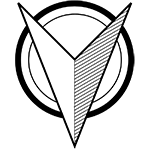
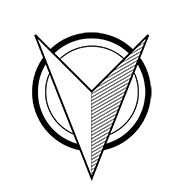
Fix: smoothing wind rotation
- added animation for wind rotation
- enlarged wind image's background to centre the compass

#story[1273]

Changed region(s): [[0.08, 0.0, 0.9067, 1.0]]

diff --git a/src/main/java/seng302/visualiser/controllers/RaceViewController.java b/src/main/java/seng302/visualiser/controllers/RaceViewController.java
@@ -9,6 +9,7 @@ import java.util.Map;
 import java.util.Timer;
 import java.util.TimerTask;
 import java.util.concurrent.TimeUnit;
+import javafx.animation.RotateTransition;
 import javafx.animation.Timeline;
 import javafx.application.Platform;
 import javafx.beans.property.ReadOnlyBooleanProperty;
@@ -47,6 +48,7 @@ import javafx.scene.shape.Polyline;
 import javafx.scene.text.Text;
 import javafx.stage.Stage;
 import javafx.stage.StageStyle;
+import javafx.util.Duration;
 import seng302.model.ClientYacht;
 import seng302.model.RaceState;
 import seng302.model.mark.CompoundMark;
@@ -608,9 +610,16 @@ public class RaceViewController extends Thread implements ImportantAnnotationDel
      * Updates the wind direction arrow and text as from info from the StreamParser
      * @param direction the from north angle of the wind.
      */
+    private double preDir = 0;
     private void updateWindDirection(double direction) {
         windDirectionLabel.setText(String.format("%.1f°", direction));
-        windImageView.setRotate(direction);
+        RotateTransition rt = new RotateTransition(Duration.millis(300), windImageView);
+        rt.setByAngle(direction - preDir);
+        rt.setCycleCount(5);
+        rt.setAutoReverse(true);
+        rt.play();
+        preDir = direction;
+//        windImageView.setRotate(direction);
     }
 
     /**
